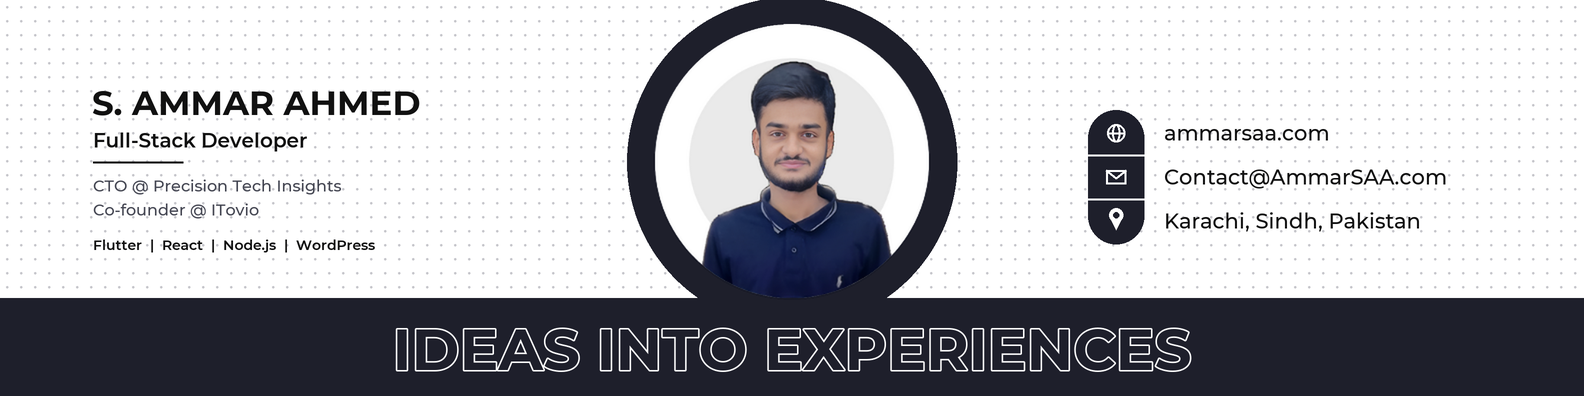
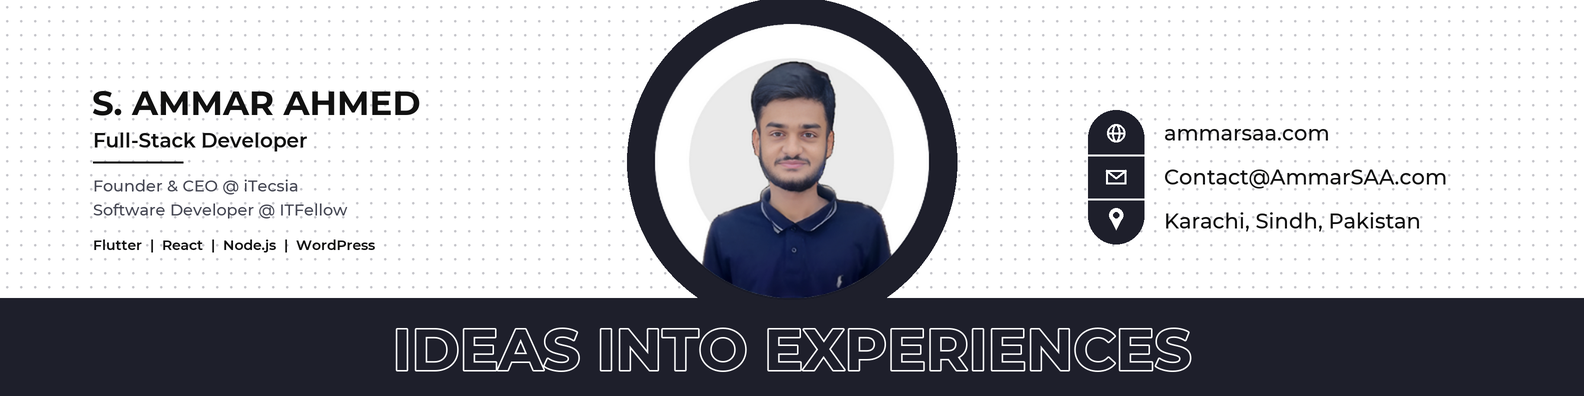
Update roles: Founder & CEO @ iTecsia, Software Developer @ ITFellow

Changed region(s): [[0.0619, 0.5152, 0.2165, 0.5455], [0.0619, 0.4545, 0.2165, 0.4848]]

diff --git a/README.md b/README.md
@@ -4,12 +4,17 @@
 <h3 align="center">Full-Stack Developer · Flutter · React · Node.js · WordPress</h3>
 
 <p align="center">
-  CTO @ <b>Precision Tech Insights</b> · Co-founder @ <b>ITovio</b> · Software Developer @ <b>ITFellow Solution Network</b><br/>
+  Founder &amp; CEO @ <a href="https://itecsia.com"><b>iTecsia</b></a> · Software Developer @ <b>ITFellow Solution Network</b><br/>
   Karachi, Pakistan
 </p>
 
 <p align="center">
+  I build web and mobile products end to end. At iTecsia we make web and mobile apps, AI chatbots and automation, ERP/CRM systems and cloud infrastructure for businesses.
+</p>
+
+<p align="center">
   <a href="https://ammarsaa.com"><img src="https://img.shields.io/badge/Portfolio-ammarsaa.com-111111?style=flat&logo=googlechrome&logoColor=white"/></a>
+  <a href="https://itecsia.com"><img src="https://img.shields.io/badge/iTecsia-itecsia.com-0B5FFF?style=flat&logo=googlechrome&logoColor=white"/></a>
   <a href="https://linkedin.com/in/ammarsaa"><img src="https://custom-icon-badges.demolab.com/badge/LinkedIn-0A66C2?logo=linkedin-white&logoColor=fff"/></a>
   <a href="https://x.com/ammar_saa14"><img src="https://img.shields.io/badge/X-%23000000?style=flat&logo=x&logoColor=white"/></a>
   <a href="https://www.youtube.com/@Ammar_SAA14"><img src="https://img.shields.io/badge/YouTube-%23FF0000.svg?logo=YouTube&logoColor=white"/></a>
@@ -24,7 +29,7 @@
 | [Hisaab Rakho API](https://github.com/AmmarSAA/Hisaab-Rakho-API) | REST backend for Hisaab Rakho 2.0 | Node.js, json-server, Vercel |
 | [Flash Games Directory](https://github.com/AmmarSAA/Flash-Games-Directory) | Preserving the legacy of Adobe Flash games (45 stars) | HTML, JavaScript |
 | [ShopSmart](https://github.com/AmmarSAA/ShopSmart) | E-commerce platform | MERN |
-| [Pharmacy POS](https://github.com/AmmarSAA/Pharmacy-POS) | Pharmacy billing and inventory: batch and expiry stock, prescriptions, tills, supplier credit, AI assistant | Node.js, Express, MongoDB, Electron |
+| [Pharmacy POS](https://github.com/AmmarSAA/Pharmacy-POS) | Pharmacy billing and inventory: batch and expiry stock, prescription and controlled-drug rules, tills, supplier credit, AI assistant. Web, desktop and Android | Node.js, Express, MongoDB, Electron |
 | [SAA Duplex Print](https://github.com/AmmarSAA/SAA-Duplex-Print) | Manual duplex printing for single-sided printers | Python |
 
 ## Tech Stack
@@ -66,7 +71,7 @@
 
 - Building **Hisaab Rakho 3.0**, a fuller budgeting app with wallets, budgets and reports
 - Writing about AI-agent security and software engineering on [LinkedIn](https://linkedin.com/in/ammarsaa)
-- Open to full-time roles, freelance projects and collaborations
+- Open to projects, partnerships and full-time opportunities
 
 ## GitHub Stats
 
